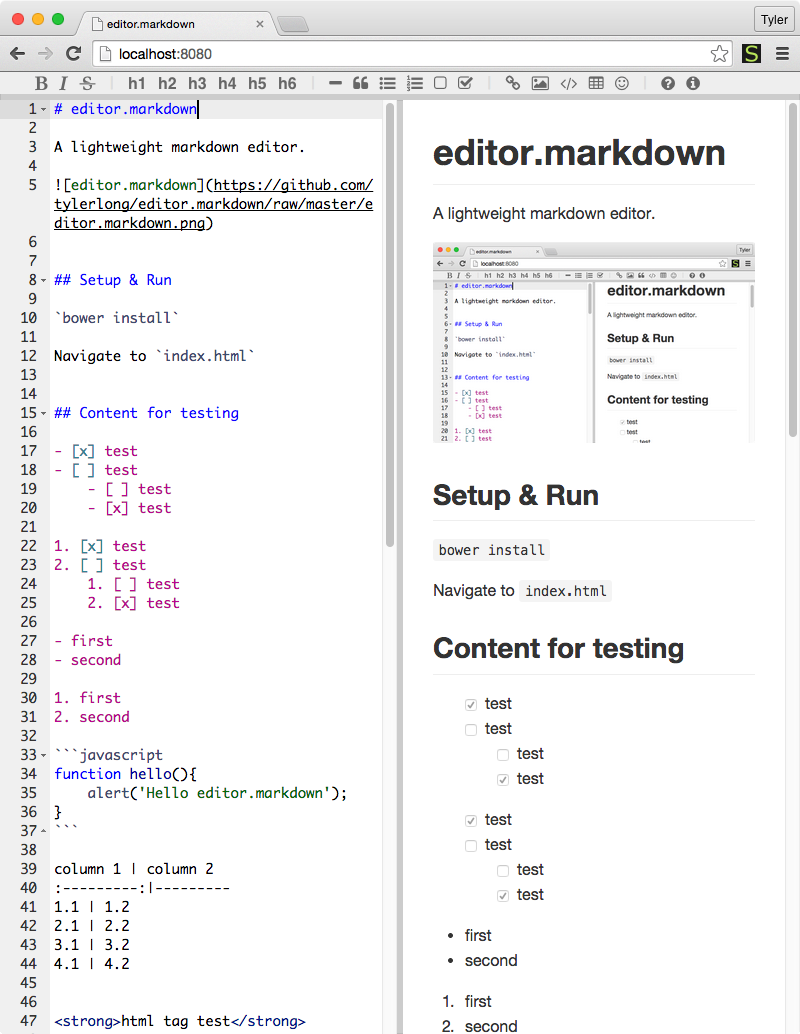
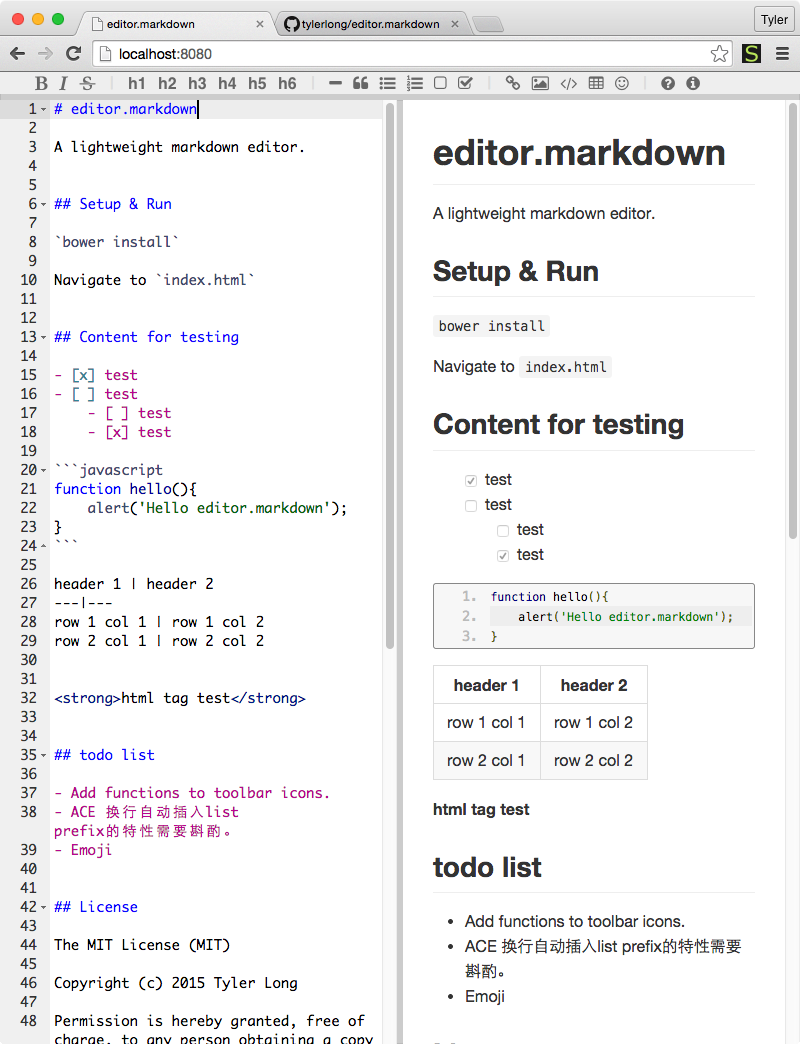
Update readme

diff --git a/README.md b/README.md
@@ -19,29 +19,16 @@ Navigate to `index.html`
     - [ ] test
     - [x] test
 
-1. [x] test
-2. [ ] test
-    1. [ ] test
-    2. [x] test
-
-- first
-- second
-
-1. first
-2. second
-
 ```javascript
 function hello(){
     alert('Hello editor.markdown');
 }
 ```
 
-column 1 | column 2
-:---------:|---------
-1.1 | 1.2
-2.1 | 2.2
-3.1 | 3.2
-4.1 | 4.2
+header 1 | header 2
+---|---
+row 1 col 1 | row 1 col 2
+row 2 col 1 | row 2 col 2
 
 
 <strong>html tag test</strong>
